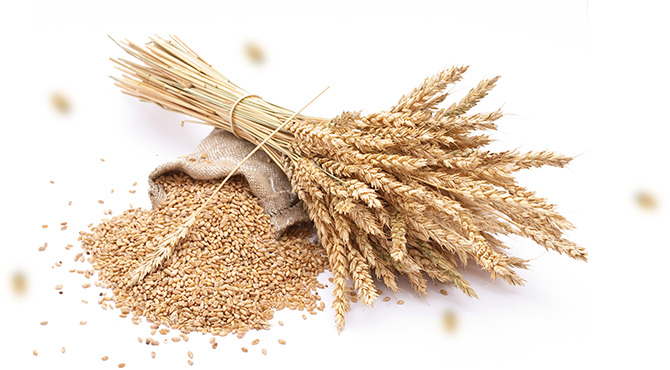
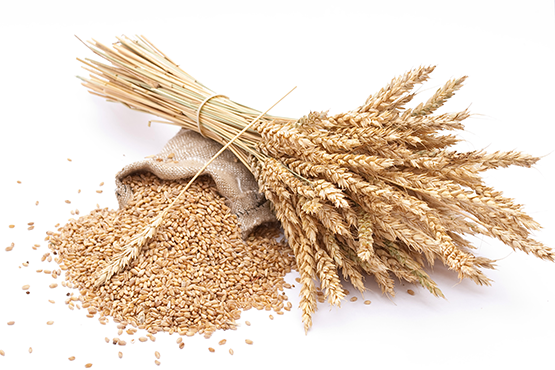
index beans ready

diff --git a/index_files/index.css b/index_files/index.css
@@ -20,11 +20,16 @@
 }
 
 .animate1_2 .beans-animate.js-parallax__first-layer {
-    background: url("parallax-beans2--1st-layer.png") no-repeat left center transparent;
+    background: url("parallax-beans3--1st-layer.png") no-repeat left center transparent;
+    margin-left: -200px;
+    height: 115%;
+    margin-top: -32px;
 }
-
-.animate1_2 .beans-animate.js-parallax__first-layer {
-    background: url("parallax-beans2--1st-layer.png") no-repeat left center transparent;
+.animate1_2 .beans-animate.js-parallax__second-layer  {
+    background: url("parallax-beans3--2nd-layer.png") no-repeat left center transparent;
+    margin-left: -135px;
+    height: 114%;
+    width: 150%;
 }
 
 .nartistHeader {
